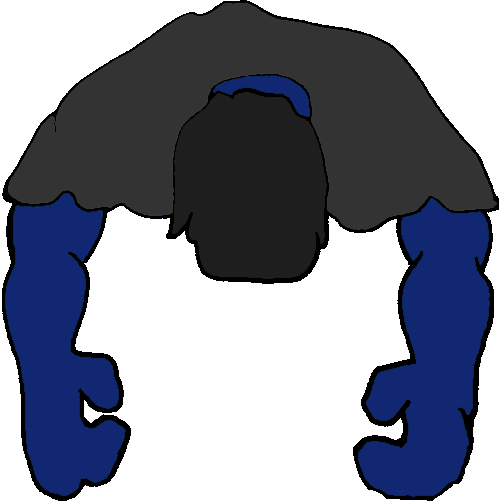
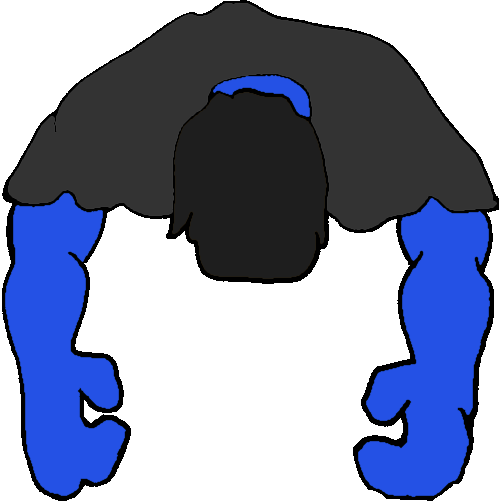
Fixed Zombie Rounds AND Zombie Sprites

Changed region(s): [[0.6914, 0.3892, 0.992, 1.0], [0.0, 0.3892, 0.2705, 0.988], [0.4208, 0.1497, 0.6313, 0.2395]]

diff --git a/src/me/zombies/Main.java b/src/me/zombies/Main.java
@@ -58,7 +58,7 @@ public class Main implements KeyListener, MouseListener, MouseMotionListener {
 
 //Zombies
 	ArrayList<Zombies> zombies = new ArrayList<Zombies>();
-	int Round = 0;
+	int Round = 4;
 	int ZombiesCounter = 0;
 	Zombies z;
 
@@ -67,7 +67,7 @@ public class Main implements KeyListener, MouseListener, MouseMotionListener {
 	int deltaY = mouseY-Player.y;
 
 //Weapons
-	Weapon pistol = new Weapon(5, 7, "Pistol");
+	Weapon pistol = new Weapon(5, 7000, "Pistol");
 	int fire;
 	int magX, magY;
 	
@@ -299,70 +299,70 @@ public class Main implements KeyListener, MouseListener, MouseMotionListener {
 
 		//Round 1 Zombie Adding
 		if (Round==1) {
-			for (int i=0; i<10; i++) zombies.add(new Zombies(GreenZombie));
-			ZombiesCounter = 10;
+			for (int i=0; i<15; i++) zombies.add(new Zombies(GreenZombie));
+			ZombiesCounter = 15;
 		}
 
 		//Round 2 Zombie Adding
 		if (Round==2) {
-			for (int i=0; i<35; i++) zombies.add(new Zombies(GreenZombie));
-			for (int i=0; i<10; i++) zombies.add(new Zombies(BlueZombie));
-			ZombiesCounter = 45;
+			for (int i=0; i<10; i++) zombies.add(new Zombies(GreenZombie));
+			for (int i=0; i< 2; i++) zombies.add(new Zombies(BlueZombie));
+			ZombiesCounter = 12;
 		}
 
 		//Round 3 Zombie Adding
 		if (Round==3) {
-			for (int i=0; i<40; i++) zombies.add(new Zombies(GreenZombie));
-			for (int i=0; i<20; i++) zombies.add(new Zombies(BlueZombie));
-			ZombiesCounter = 60;
+			for (int i=0; i<10; i++) zombies.add(new Zombies(GreenZombie));
+			for (int i=0; i< 6; i++) zombies.add(new Zombies(BlueZombie));
+			ZombiesCounter = 16;
 		}
 		//Round 4 Zombie Adding
 		if (Round==4) {
-			for (int i=0; i<30; i++) zombies.add(new Zombies(GreenZombie));
-			for (int i=0; i<35; i++) zombies.add(new Zombies(BlueZombie));
-			ZombiesCounter = 65;
+			for (int i=0; i<12; i++) zombies.add(new Zombies(GreenZombie));
+			for (int i=0; i< 9; i++) zombies.add(new Zombies(BlueZombie));
+			ZombiesCounter = 21;
 		}
 
 		//Round 5 Zombie Adding
 		if (Round==5) {
-			for (int i=0; i<35; i++) zombies.add(new Zombies(GreenZombie));
-			for (int i=0; i<25; i++) zombies.add(new Zombies(BlueZombie));
+			for (int i=0; i<13; i++) zombies.add(new Zombies(GreenZombie));
+			for (int i=0; i<10; i++) zombies.add(new Zombies(BlueZombie));
 			for (int i=0; i< 1; i++) zombies.add(new Zombies(RedZombie));
-			ZombiesCounter = 61;
+			ZombiesCounter = 24;
 		}
 
 		//Round 6 Zombie Adding
 		if (Round==6) {
-			for (int i=0; i<40; i++) zombies.add(new Zombies(GreenZombie));
-			for (int i=0; i<30; i++) zombies.add(new Zombies(BlueZombie));
-			for (int i=0; i< 5; i++) zombies.add(new Zombies(RedZombie));
-			ZombiesCounter = 75;
+			for (int i=0; i<15; i++) zombies.add(new Zombies(GreenZombie));
+			for (int i=0; i< 5; i++) zombies.add(new Zombies(BlueZombie));
+			for (int i=0; i< 3; i++) zombies.add(new Zombies(RedZombie));
+			ZombiesCounter = 23;
 		}			
 
 		//Round 7 Zombie Adding
 		if (Round==7) {
-			for (int i=0; i<45; i++) zombies.add(new Zombies(GreenZombie));
-			for (int i=0; i<25; i++) zombies.add(new Zombies(BlueZombie));
-			for (int i=0; i<15; i++) zombies.add(new Zombies(RedZombie));
-			ZombiesCounter = 85;
+			for (int i=0; i<10; i++) zombies.add(new Zombies(GreenZombie));
+			for (int i=0; i<10; i++) zombies.add(new Zombies(BlueZombie));
+			for (int i=0; i< 6; i++) zombies.add(new Zombies(RedZombie));
+			ZombiesCounter = 26;
 		}
 
 		//Round 8 Zombie Adding
 		if (Round==8) {
-			for (int i=0; i<25; i++) zombies.add(new Zombies(GreenZombie));
+			for (int i=0; i<10; i++) zombies.add(new Zombies(GreenZombie));
 			for (int i=0; i<10; i++) zombies.add(new Zombies(BlueZombie));
 			for (int i=0; i<05; i++) zombies.add(new Zombies(RedZombie));
 			for (int i=0; i<01; i++) zombies.add(new Zombies(GoldZombie));
-			ZombiesCounter = 41;
+			ZombiesCounter = 26;
 		}
 
 		//Round 9 Zombie Adding
 		if (Round==9) {
-			for (int i=0; i<35; i++) zombies.add(new Zombies(GreenZombie));
-			for (int i=0; i<25; i++) zombies.add(new Zombies(BlueZombie));
-			for (int i=0; i<15; i++) zombies.add(new Zombies(RedZombie));
-			for (int i=0; i<05; i++) zombies.add(new Zombies(GoldZombie));
-			ZombiesCounter = 80;
+			for (int i=0; i<10; i++) zombies.add(new Zombies(GreenZombie));
+			for (int i=0; i<10; i++) zombies.add(new Zombies(BlueZombie));
+			for (int i=0; i< 8; i++) zombies.add(new Zombies(RedZombie));
+			for (int i=0; i< 5; i++) zombies.add(new Zombies(GoldZombie));
+			ZombiesCounter = 33;
 		}
 
 		//Round 10 Zombie Adding
@@ -371,7 +371,7 @@ public class Main implements KeyListener, MouseListener, MouseMotionListener {
 			for (int i=0; i<35; i++) zombies.add(new Zombies(BlueZombie));
 			for (int i=0; i<25; i++) zombies.add(new Zombies(RedZombie));
 			for (int i=0; i<10; i++) zombies.add(new Zombies(GoldZombie));
-			ZombiesCounter = 120;
+			ZombiesCounter = 40;
 		}
 
 	}
@@ -426,7 +426,7 @@ public class Main implements KeyListener, MouseListener, MouseMotionListener {
 				
 			movePlayer();
 			
-			moveZombies();
+//			moveZombies();
 			
 			moveBullets();
 

diff --git a/src/me/zombies/Zombies.java b/src/me/zombies/Zombies.java
@@ -16,7 +16,7 @@ class Zombies extends Rectangle{
 
 	//Colors
 	Color White = new Color (255, 255, 255);
-	Color Blue = new Color (0, 0, 255);
+	Color Blue = new Color (100, 100, 255);
 	Color Red = new Color (255, 0, 0);
 	Color Black = new Color (0, 0, 0);
 	BasicStroke ZombiesHPBarStroke = new BasicStroke(Main.WIN/500);
@@ -149,7 +149,7 @@ class Zombies extends Rectangle{
 		int BarX = x+(ZombiesWidth/2)-(BarWidth/2);
 		int BarY = y-(Main.WIN/60);
 
-		g.setColor(White);										// <---- White Background
+		g.setColor(Black);										// <---- White Background
 		g.fillRect(BarX, BarY, BarWidth, BarHeight);
 
 
